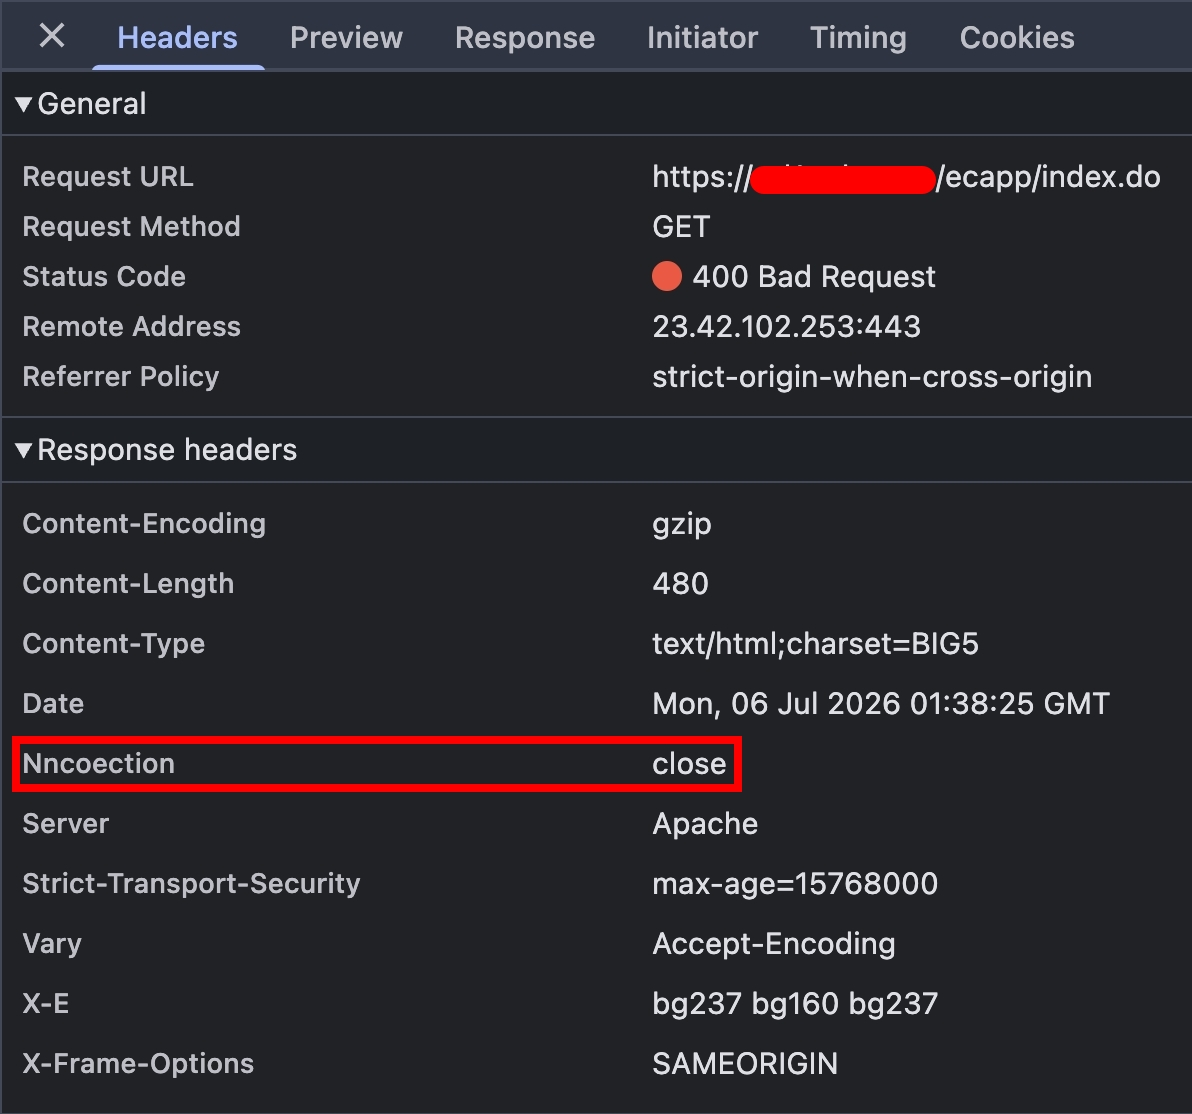
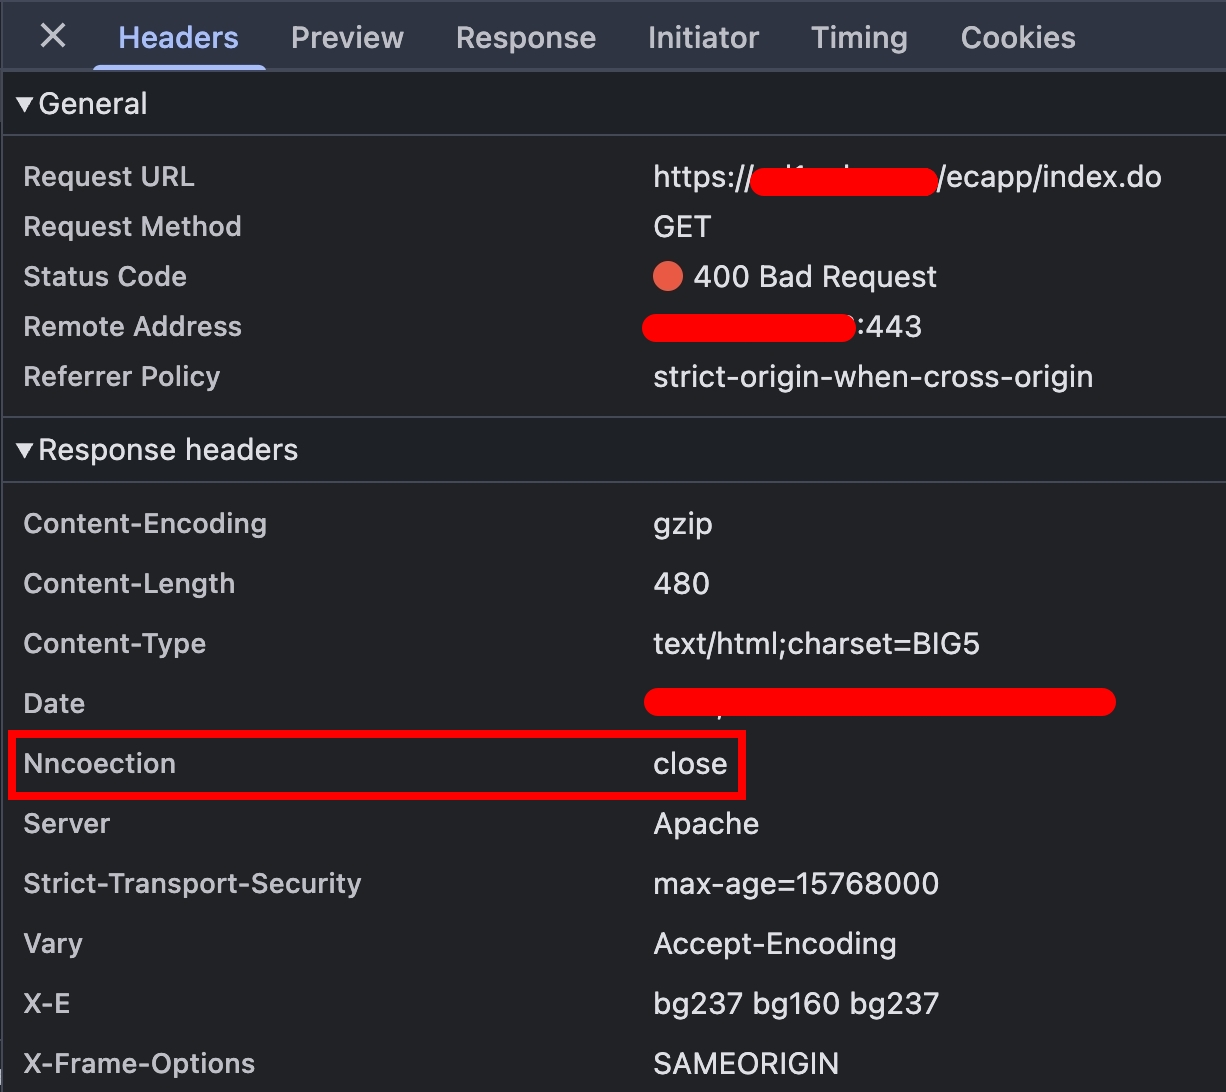
nncoection-or-connection images

Changed region(s): [[0.0, 0.0, 1.0, 1.0], [0.5277, 0.0, 0.9002, 0.0623], [0.3725, 0.0, 0.4966, 0.0623]]

diff --git a/docs/http/nncoection-or-connection.md b/docs/http/nncoection-or-connection.md
@@ -35,7 +35,7 @@ HTTP/2 廢棄了 `Connection` header，參考 [RFC 9113 Section 8.2.2](https://d
 HTTP/2 does not use the Connection header field (Section 7.6.1 of [HTTP]) to indicate connection-specific header fields
 ```
 
-現代很多 Application 的架構，都是 client > Frontend 走 HTTP/2，Frontend > Backend 走 HTTP/1
+現代很多 Application 的架構，都是 client > Frontend 走 HTTP/2，Frontend > Backend 走 HTTP/1.1
 
 ```mermaid
 sequenceDiagram
@@ -49,6 +49,8 @@ sequenceDiagram
   w ->> b: HTTP/1.1
 ```
 
+<!-- ![](../../static/client-frontend-to-backend.svg) -->
+
 也就是說，`Nncoection: close` 可能是在 response 階段的某個節點加的
 
 ```mermaid
@@ -61,6 +63,8 @@ sequenceDiagram
   b ->> w: HTTP/1.1 500 Internal Server Error
   w ->> f: HTTP/1.1 500 Internal Server Error<br/>Nncoection: close
 ```
+
+<!-- ![](../../static/client-frontend-backend-nncoection-close.svg) -->
 
 ## Google Search
 
@@ -107,6 +111,8 @@ sequenceDiagram
   Note over f: 為了高效能<br/>我要維持跟 Client 的連線<br/><br/>所以直接 inplace 修改<br/>Connection => Nncoection
   f ->> c: :status: 500<br/>Nncoection: close
 ```
+
+<!-- ![](../../static/client-f5-big-ip-nncoection.svg) -->
 
 至於為何不直接把 `Connection: close` 這行刪掉，或是改成 `Connection: keep-alive` 呢？原因也是效能優化：
 